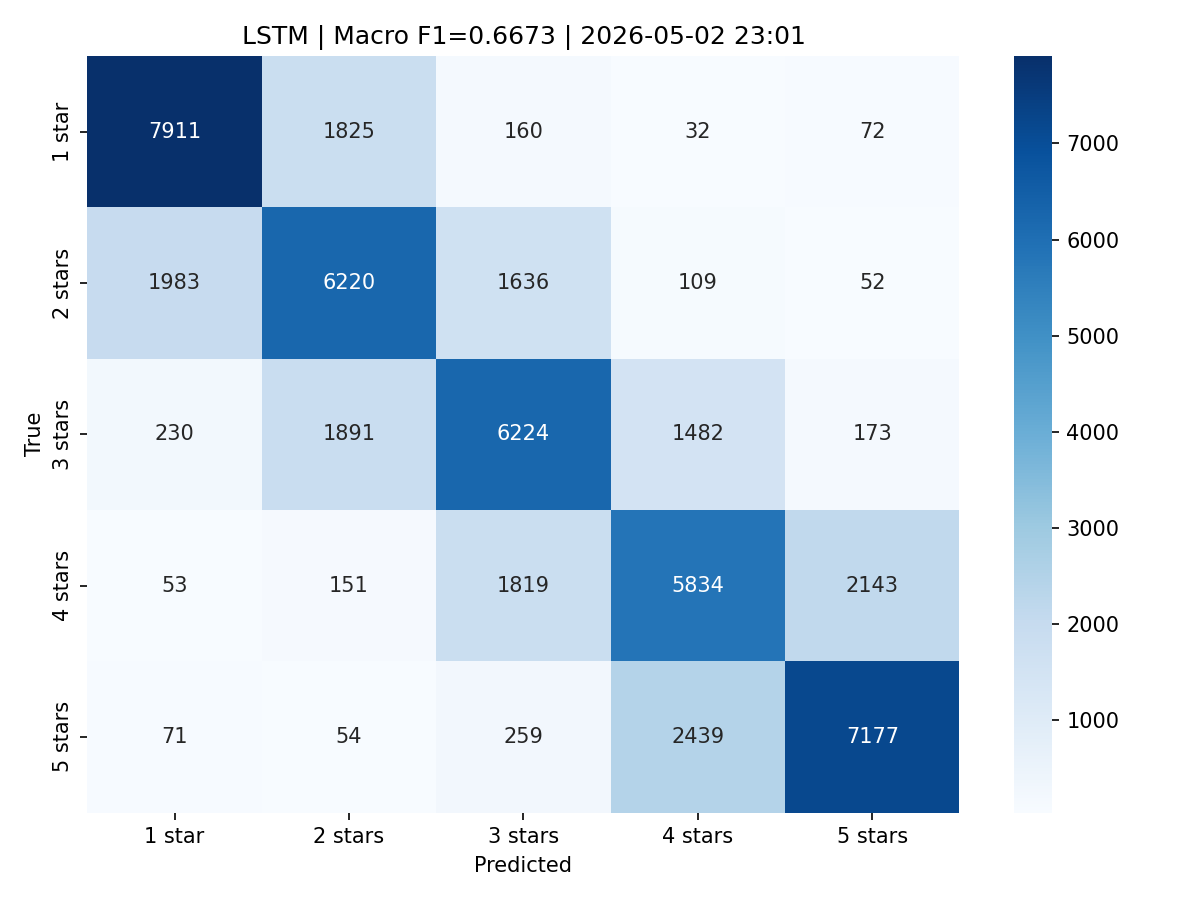
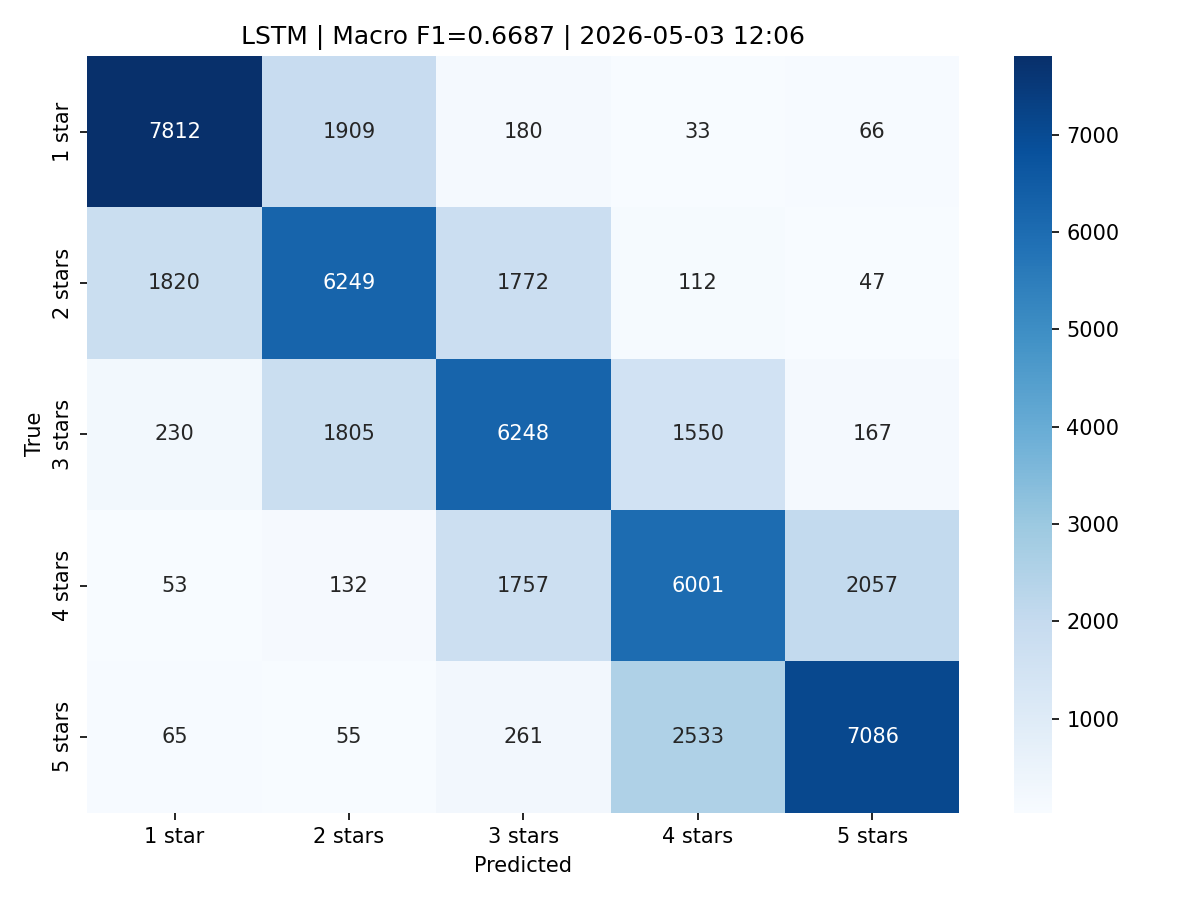
LSTM Run
Forgot to put this on github, the 1024 run

diff --git a/LSTM/results_log.md b/LSTM/results_log.md
@@ -35,20 +35,20 @@
 
 ## LSTM (final, best config)
 
-- **Date:** 2026-05-02 23:01
+- **Date:** 2026-05-03 12:06
 - **Device:** NVIDIA GeForce RTX 4080 SUPER
-- **Accuracy:** 0.6673
-- **Macro Precision:** 0.6675
-- **Macro Recall:** 0.6673
-- **Macro F1:** 0.6673
-- **Time:** 5067.8s (84.5m)
+- **Accuracy:** 0.6679
+- **Macro Precision:** 0.6697
+- **Macro Recall:** 0.6679
+- **Macro F1:** 0.6687
+- **Time:** 9894.0s (164.9m)
 
 <details>
 <summary>Config</summary>
 
 **Params**
 - `max_vocab`: 30000
-- `max_len`: 512
+- `max_len`: 1024
 - `embed_dim`: 300
 - `hidden_dim`: 256
 - `num_layers`: 2
